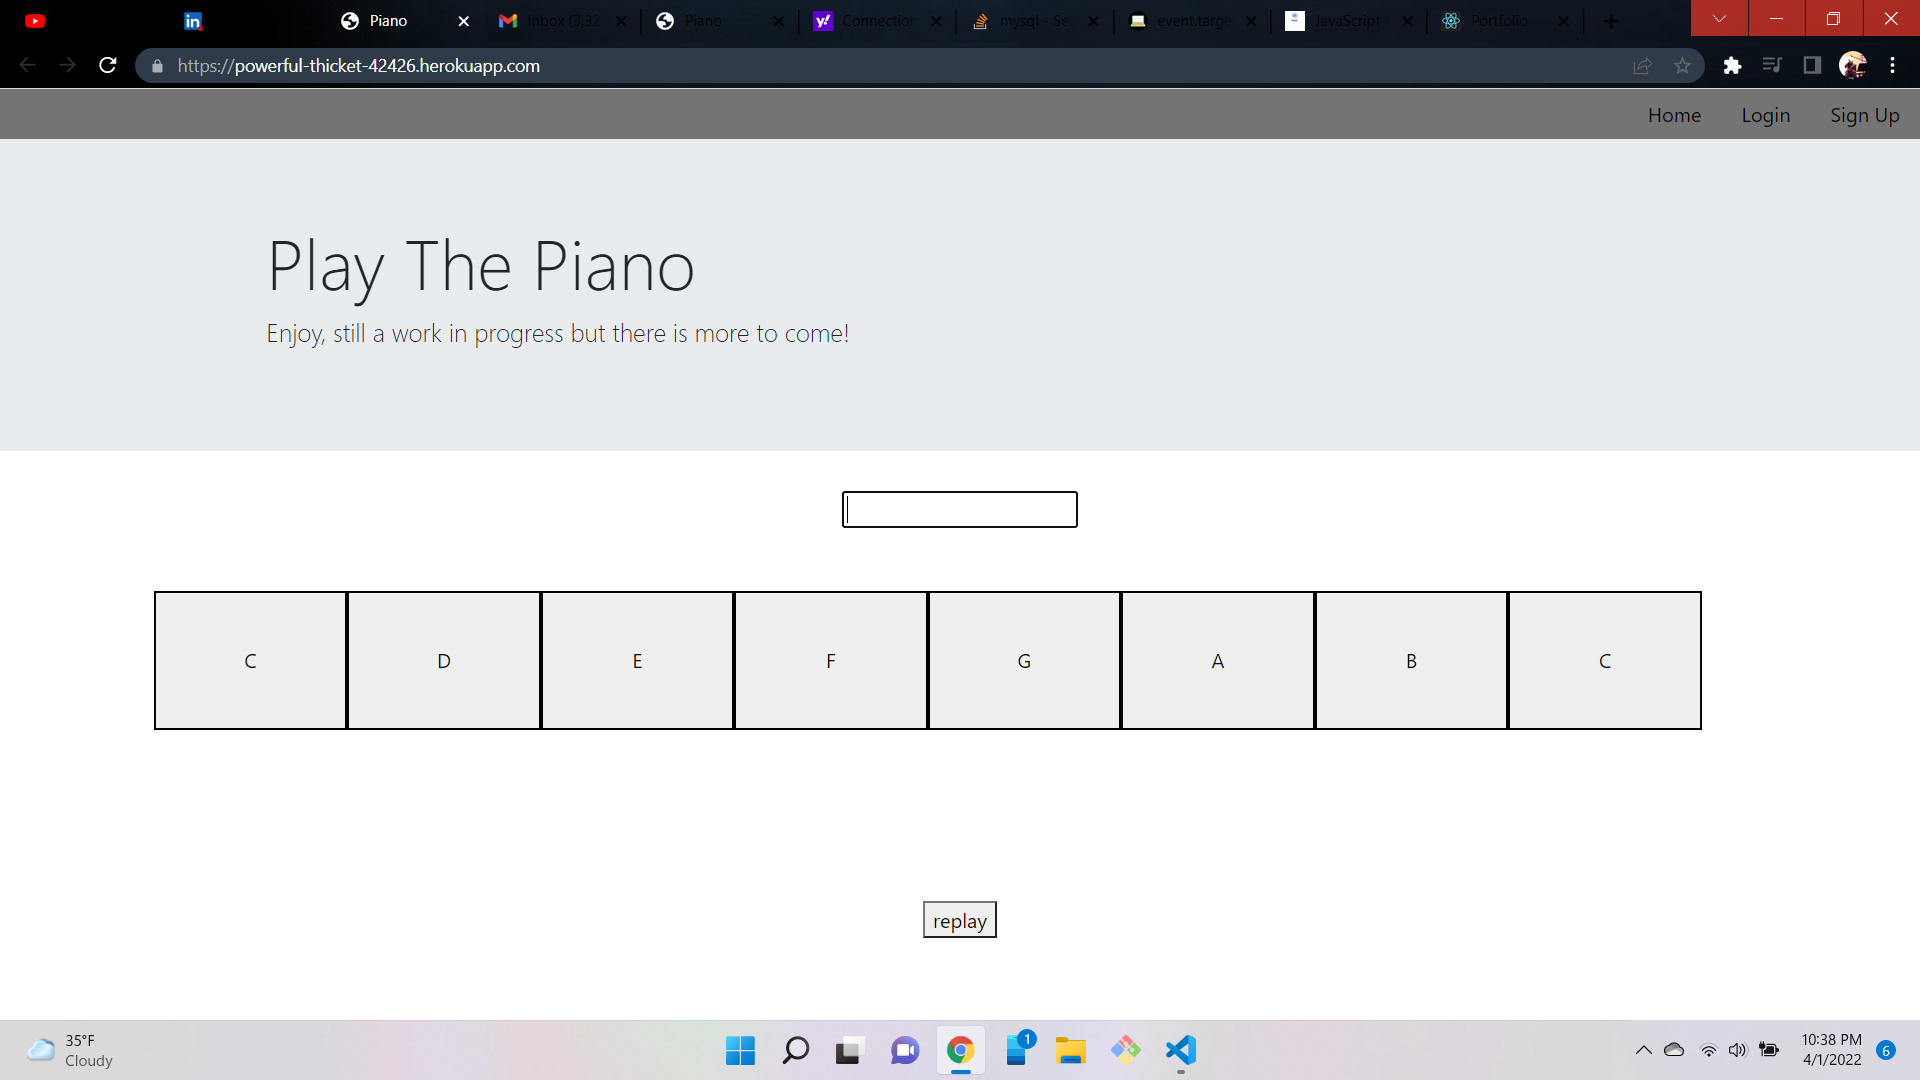
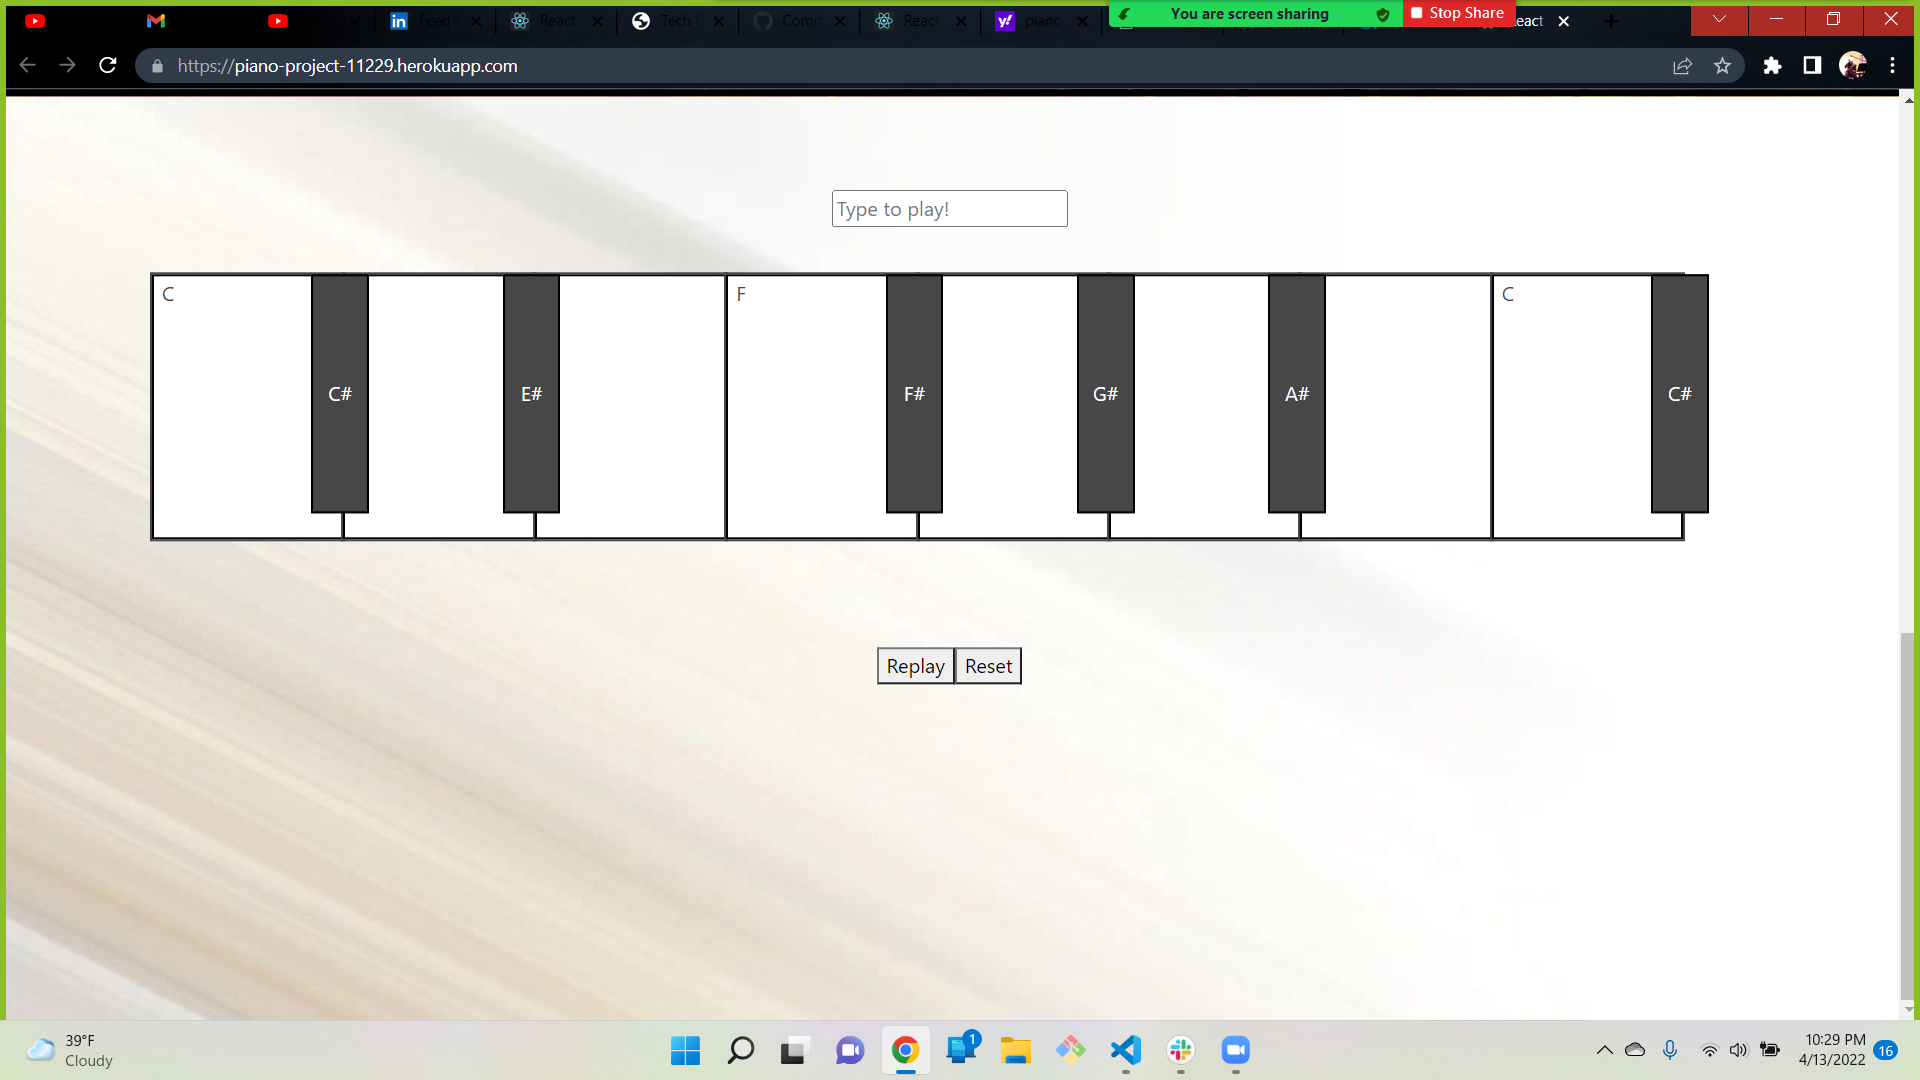
change

diff --git a/src/data.js b/src/data.js
@@ -1,12 +1,12 @@
 export const projects = [
 
-  // {
-  //   title: "Text-Editor",
-  //   subtitle: "PWA, WebPack, Bable, Workbox",
-  //   description: "This text editor demonstrates the use of PWA(Progressive Web Application) and wepacks. User will be able to type code into the body, the code will be cashed into an IndexDb and the application will work offline. User will also be able to download the application!",
-  //   link: "https://github.com/groyseth/text-editor-GR",
-  //   live: "https://nameless-meadow-70824.herokuapp.com/"
-  // },
+  {
+    title: "Text-Editor",
+    subtitle: "PWA, WebPack, Bable, Workbox",
+    description: "This text editor demonstrates the use of PWA(Progressive Web Application) and wepacks. User will be able to type code into the body, the code will be cashed into an IndexDb and the application will work offline. User will also be able to download the application!",
+    link: "https://github.com/groyseth/text-editor-GR",
+    live: "https://nameless-meadow-70824.herokuapp.com/"
+  },
   // {
   //   title: "Workday",
   //   subtitle: "Node.js, Javascript, Moment",
@@ -47,16 +47,16 @@ export const projects = [
     title: "Piano Project",
     subtitle: "MySQL, Express, Mongoose, Restful API",
     description: "Be able to play the piano with users keyboard or click on the keys themselfs. Still more work I want to do like adding a log in feature and saving songs that are user made.",
-    link: "https://github.com/groyseth/Personal-PianoProject",
-    live: "https://powerful-thicket-42426.herokuapp.com/"
+    link: "https://github.com/groyseth/react-piano",
+    live: "https://piano-project-11229.herokuapp.com/"
   },
-  {
-    title: "Tech Blog",
-    subtitle: "MySQL, Express, Sequilize, Restful API",
-    description: "This app demonstrates the use of RestFul API's and MySQL. User is able to make a post or leave a comment, only if logged in. User has a dashboard of posts and comments made, which user will have the option to delete. Updating a post or comment is the next thing to be worked on.",
-    link: "https://github.com/groyseth/Tech-Blog-GR",
-    live: "https://mysterious-crag-93080.herokuapp.com/"
-  }
+  // {
+  //   title: "Tech Blog",
+  //   subtitle: "MySQL, Express, Sequilize, Restful API",
+  //   description: "This app demonstrates the use of RestFul API's and MySQL. User is able to make a post or leave a comment, only if logged in. User has a dashboard of posts and comments made, which user will have the option to delete. Updating a post or comment is the next thing to be worked on.",
+  //   link: "https://github.com/groyseth/Tech-Blog-GR",
+  //   live: "https://mysterious-crag-93080.herokuapp.com/"
+  // }
 
 ];
 

diff --git a/src/components/Page/Landing.js b/src/components/Page/Landing.js
@@ -19,7 +19,7 @@ export default function Recon() {
       <container>
         <Row>
         <img src={Pic} className='imageClass' alt='astro'></img>
-      <h1 className='title'>Hello Im<br /> Grant Royseth</h1>
+      <h1 className='title'>Grant Royseth<br /> Front-End Developer</h1>
       </Row>
       </container>
       {/* <img src={Sat} className='Sat'></img> */}
